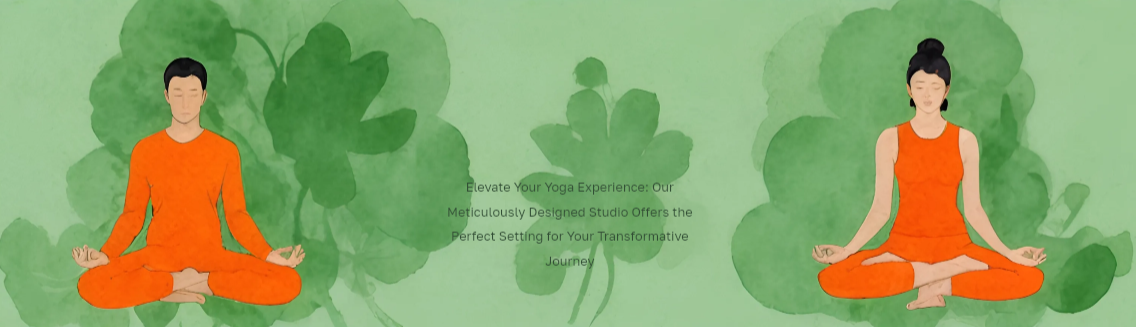
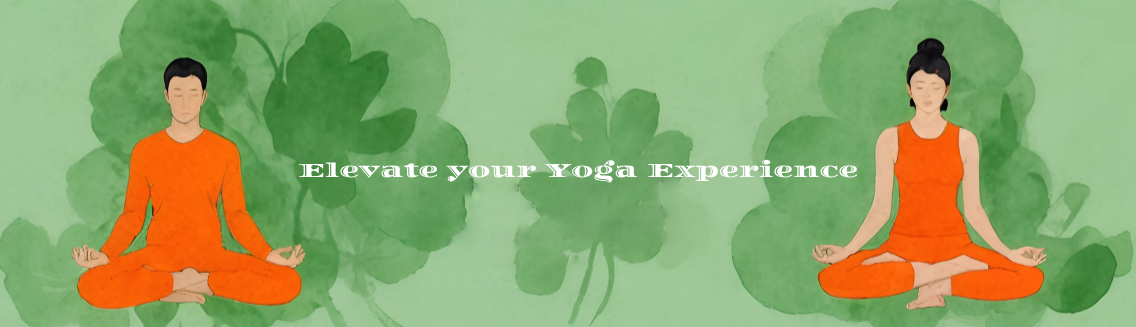
changes theme

Changed region(s): [[0.2465, 0.4893, 0.7702, 0.6728], [0.4005, 0.7034, 0.6162, 0.7339], [0.4621, 0.7645, 0.5238, 0.8257]]

diff --git a/templates/gallery.html b/templates/gallery.html
@@ -17,83 +17,79 @@
     <div class="gallery">
         <div class="gallery-item">
             <img src="/static/assets/photos/one.png" alt="Yoga Pose 1">
-            <div class="caption">some caption :/</div>
+            
         </div>
         <div class="gallery-item">
             <img src="/static/assets/photos/two.png" alt="Yoga Class 1">
-            <div class="caption">some caption :/</div>
+            
         </div>
         <div class="gallery-item">
             <img src="/static/assets/photos/three.png" alt="Yoga Event 1">
-            <div class="caption">some caption :/</div>
+            
         </div>
         <div class="gallery-item">
             <img src="/static/assets/photos/four.png" alt="Yoga Pose 2">
-            <div class="caption">some caption :/</div>
-        </div>
-        <div class="gallery-item">
-            <img src="/static/assets/photos/five.png" alt="Yoga Class 2">
-            <div class="caption">some caption :/</div>
+            
         </div>
         <div class="gallery-item">
             <img src="/static/assets/photos/six.png" alt="Yoga Event 2">
-            <div class="caption">some caption :/</div>
+            
         </div>
         <div class="gallery-item">
             <img src="/static/assets/photos/seven.png" alt="Yoga Pose 1">
-            <div class="caption">some caption :/</div>
+            
         </div>
         <div class="gallery-item">
             <img src="/static/assets/photos/eight.png" alt="Yoga Class 1">
-            <div class="caption">some caption :/</div>
+            
         </div>
         <div class="gallery-item">
             <img src="/static/assets/photos/nine.png" alt="Yoga Event 1">
-            <div class="caption">some caption :/</div>
+            
         </div>
         <div class="gallery-item">
             <img src="/static/assets/photos/ten.png" alt="Yoga Pose 2">
-            <div class="caption">some caption :/</div>
+            
         </div>
         <div class="gallery-item">
             <img src="/static/assets/photos/eleven.png" alt="Yoga Class 2">
-            <div class="caption">some caption :/</div>
+            
         </div>
         <div class="gallery-item">
             <img src="/static/assets/photos/twelve.png" alt="Yoga Event 2">
-            <div class="caption">some caption :/</div>
+            
         </div>
         <div class="gallery-item">
             <img src="/static/assets/photos/thirteen.png" alt="Yoga Event 2">
-            <div class="caption">some caption :/</div>
+            
         </div>
         <div class="gallery-item">
             <img src="/static/assets/photos/fourteen.png" alt="Yoga Event 2">
-            <div class="caption">some caption :/</div>
+            
         </div>
         <div class="gallery-item">
             <img src="/static/assets/photos/fifteen.png" alt="Yoga Event 2">
-            <div class="caption">some caption :/</div>
+            
         </div>
         <div class="gallery-item">
             <img src="/static/assets/photos/sixteen.png" alt="Yoga Event 2">
-            <div class="caption">some caption :/</div>
+            
         </div>
         <div class="gallery-item">
             <img src="/static/assets/photos/seventeen.png" alt="Yoga Event 2">
-            <div class="caption">some caption :/</div>
+            
         </div>
         <div class="gallery-item">
             <img src="/static/assets/photos/eighteen.png" alt="Yoga Event 2">
-            <div class="caption">some caption :/</div>
+            
         </div>
         <div class="gallery-item">
             <img src="/static/assets/photos/nineteen.png" alt="Yoga Event 2">
-            <div class="caption">some caption :/</div>
+            
         </div>
         <div class="gallery-item">
             <img src="/static/assets/photos/twentyone.png" alt="Yoga Event 2">
-            <div class="caption">some caption :/</div>
+            
         </div>
     </div>
 </body>

diff --git a/static/styles/carousel.css b/static/styles/carousel.css
@@ -10,7 +10,7 @@
   min-height: 100vh;
   display: grid;
   place-items: center;
-  background: #48435c; /* Darker background color from the palette */
+  background: #ffffff; /* Darker background color from the palette */
   font-family: "Ubuntu Mono", monospace;
   font-weight: 400;
 }
@@ -25,7 +25,7 @@
 
 .team-section .container > div {
   margin-top: 20px;
-  flex: 0 0 120px;
+  flex: 0 0 200px;
   border-radius: 0.5rem;
   transition: 0.5s ease-in-out;
   cursor: pointer;
@@ -34,18 +34,29 @@
   overflow: hidden;
 }
 
-.team-section .container > div:nth-of-type(1),
-.team-section .container > div:nth-of-type(2),
-.team-section .container > div:nth-of-type(3),
-.team-section .container > div:nth-of-type(4),
-.team-section .container > div:nth-of-type(5),
-.team-section .container > div:nth-of-type(6) {
-    background: url("/static/assets/placeholder.webp") no-repeat 50% / cover;
+.team-section .container > div:nth-of-type(1) {
+  background: url("/static/assets/trainer.webp") no-repeat 50% / cover;
 }
+.team-section .container > div:nth-of-type(5){
+  background: url("/static/assets/trainer.webp") no-repeat 50% / cover;
+}
+.team-section .container > div:nth-of-type(2) {
+  background: url("/static/assets/trainer2.webp") no-repeat 50% / cover;
+}
+.team-section .container > div:nth-of-type(3) {
+  background: url("/static/assets/trainer3.webp") no-repeat 50% / cover;
+}
+.team-section .container > div:nth-of-type(4) {
+  background: url("/static/assets/trainer4.webp") no-repeat 50% / cover;
+}
+.team-section .container > div:nth-of-type(6) {
+  background: url("/static/assets/trainer2.webp") no-repeat 50% / cover;
+}
+
 
 .team-section .content {
   font-size: 1.5rem;
-  color: #fafafa; /* Accent text color */
+  color: #ffffff; /* Accent text color */
   display: flex;
   align-items: center;
   padding: 15px;
@@ -55,8 +66,8 @@
   justify-content: flex-end;
   background: linear-gradient(
     0deg,
-    #9792e3ac 0%, /* Gradient using the purple shade */
-    rgba(255, 255, 255, 0) 100%
+    #7aab9c 0%, /* Gradient using the purple shade */
+    rgba(255, 255, 255, 0) 60%
   );
   transform: translatey(100%);
   transition: opacity 0.5s ease-in-out, transform 0.5s 0.2s;
@@ -71,7 +82,7 @@
 
 .team-section .container > div:hover {
   flex: 0 0 250px;
-  box-shadow: 1px 3px 15px #9792e3; /* Bright hover state shadow */
+  box-shadow: 1px 3px 15px #54784f; /* Bright hover state shadow */
   transform: translatey(-30px);
 }
 
@@ -137,7 +148,7 @@
 .custom-carousel-item:nth-of-type(5) { --offset: 5; background-color: #e9ff70; }
 .custom-carousel-item:nth-of-type(6) { --offset: 6; background-color: #70ff96; }
 .custom-carousel-item:nth-of-type(7) { --offset: 7; background-color: #70a6ff; }
-.custom-carousel-item:nth-of-type(8) { --offset: 8; background-color: #b070ff; }
+.custom-carousel-item:nth-of-type(8) { --offset: 8; background-color: #fbf5e9; }
 .custom-carousel-item:nth-of-type(9) { --offset: 9; background-color: #ff70e1; }
 .custom-carousel-item:nth-of-type(10) { --offset: 10; background-color: #ff7070; }
 .custom-carousel-item:nth-of-type(11) { --offset: 11; background-color: #70ffda; }

diff --git a/templates/index.html b/templates/index.html
@@ -22,9 +22,9 @@
                     <li class="dropdown">
                         <a href="#" class="dropbtn">About Us</a>
                         <div class="dropdown-content">
-                            <a href="#">Our Vision & Mission</a>
+                            <a href="{{ url_for('visionNmission') }}">Our Vision & Mission</a>
                             <a href="#">Our History</a>
-                            <a href="#">Meet Our Team</a>
+                            <a href="#gohere">Meet Our Team</a>
                         </div>
                     </li>
                 </ul>
@@ -45,7 +45,7 @@
             </div>
     </section>
 
-    <section id="trainers">
+    <section id="trainers" id = "gohere">
         <div class="team-section">
             <div class="container">
             <div>
@@ -95,14 +95,14 @@
 
 <section class="courses">
     <div class="custom-carousel-container">
+        <input class="custom-carousel-radio" type="radio" name="position" />
+        <input class="custom-carousel-radio" type="radio" name="position" />
+        <input class="custom-carousel-radio" type="radio" name="position" />
+        <input class="custom-carousel-radio" type="radio" name="position" />
+        <input class="custom-carousel-radio" type="radio" name="position" />
+        <input class="custom-carousel-radio" type="radio" name="position" />
+        <input class="custom-carousel-radio" type="radio" name="position" />
         <input class="custom-carousel-radio" type="radio" name="position" checked />
-        <input class="custom-carousel-radio" type="radio" name="position" />
-        <input class="custom-carousel-radio" type="radio" name="position" />
-        <input class="custom-carousel-radio" type="radio" name="position" />
-        <input class="custom-carousel-radio" type="radio" name="position" />
-        <input class="custom-carousel-radio" type="radio" name="position" />
-        <input class="custom-carousel-radio" type="radio" name="position" />
-        <input class="custom-carousel-radio" type="radio" name="position" />
         <input class="custom-carousel-radio" type="radio" name="position" />
         <input class="custom-carousel-radio" type="radio" name="position" />
         <input class="custom-carousel-radio" type="radio" name="position" />
@@ -177,7 +177,7 @@
         </section> -->
         <section>
             <div class="wowim">
-                <img src="/static/assets/wowim.png" alt="hi">
+                <img src="/static/assets/yoyo.png" alt="hi">
             </div>
         </section>
 

diff --git a/static/styles/gallery.css b/static/styles/gallery.css
@@ -8,7 +8,7 @@ body {
     flex-direction: column;
     align-items: center; 
 
-    background: linear-gradient(180deg, rgba(243,179,150,1) 0%, rgba(255,255,255,1) 55%, rgba(255,255,255,1) 100%);   background: linear-gradient(180deg, rgba(241,169,136,1) 0%, rgba(255,255,255,1) 60%, rgba(255,255,255,1) 100%);
+    background: linear-gradient(180deg, #bcd4cd 0%, #ebfbf3 100%);
     background-attachment: fixed;
 }
 
@@ -20,11 +20,12 @@ body {
     max-width: 1200px; 
     margin: 20px auto; 
     line-height: 1.2;
+    box-shadow: 0 0.5rem 1rem #86a87e70;
 }
 
 .intro h1 {
     font-size: 2.5em; 
-    color: #2c3e50; 
+    color: #447a3d; 
     margin-bottom: 0.5em;
 }
 
@@ -41,6 +42,7 @@ body {
     max-width: 1200px; 
     margin: 0 auto; 
     padding: 0 15px; 
+    padding-top: 30px;
 }
 
 .gallery-item {

diff --git a/static/styles/login.css b/static/styles/login.css
@@ -14,7 +14,7 @@ html, body {
 
 
 body {
-	background: linear-gradient(90deg, #fff4cc, #fadd77); /* Light Cream to Golden Yellow */
+	background: linear-gradient(90deg, #dbffec, #e6dec3); /* Light Cream to Golden Yellow */
 }
 
 .container {
@@ -87,7 +87,7 @@ body {
 .screen__background__shape3 {
 	height: 540px;
 	width: 190px;
-	background: linear-gradient(270deg, #ff7f0e, #d35400); /* Vibrant Orange to Dark Orange */
+	background: linear-gradient(270deg, #f6853f, #f36011); /* Vibrant Orange to Dark Orange */
 	top: -24px;
 	right: 0;	
 	border-radius: 32px;

diff --git a/templates/login.html b/templates/login.html
@@ -8,7 +8,7 @@
     <title>Login</title>
 </head>
 <body>
-    <!-- Display flash messages -->
+    <!-- Display flash messages 
     {% with messages = get_flashed_messages(with_categories=true) %}
         {% if messages %}
             <div class="flashes">
@@ -18,7 +18,7 @@
             </div>
         {% endif %}
     {% endwith %}
-    
+    -->
     <div class="container">
         <img src="/static/assets/yogapose3.png" alt="Image 1" class="side-image left-image">
         <div class="screen">

diff --git a/static/styles/registration.css b/static/styles/registration.css
@@ -20,7 +20,7 @@
     background-color: #fff;
     margin: auto;
     padding: 20px;
-    border: 1px solid #888;
+    border: 1px solid #f6853f;
     width: 80%;
     max-width: 500px;
     border-radius: 10px;
@@ -125,7 +125,7 @@
     width: 40px;
     line-height: 35px;
     text-align: center;
-    background: #FFD54F;
+    background: #e6dec3;
     color: #070707;
     border-radius: 4px 0 0 4px;
     margin-right: 10px; 

diff --git a/static/styles/footer.css b/static/styles/footer.css
@@ -24,7 +24,7 @@ ul{
 }
 
 .footer{
-	background-color: #ccc5b9;
+	background-color: #ffffff;
     padding: 70px 0;
 }
 .footer-col{
@@ -84,7 +84,7 @@ ul{
 }
 
 .footer-col .Address{
-    background-color: #ccc5b9;
+    background-color: #ffffff;
     color: #24262b;
 }
 
